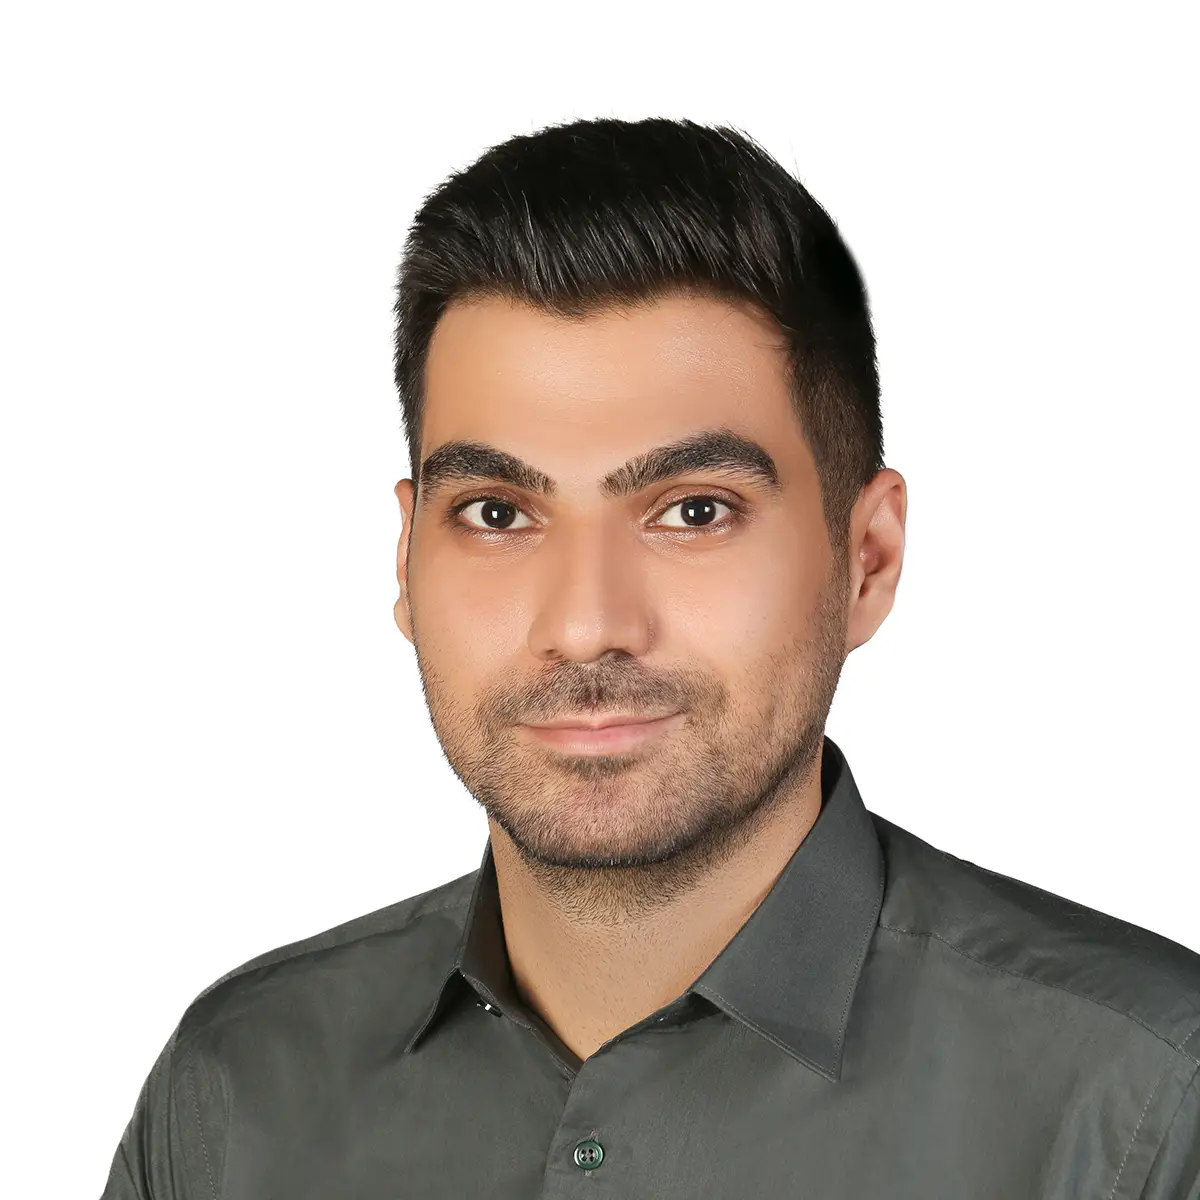
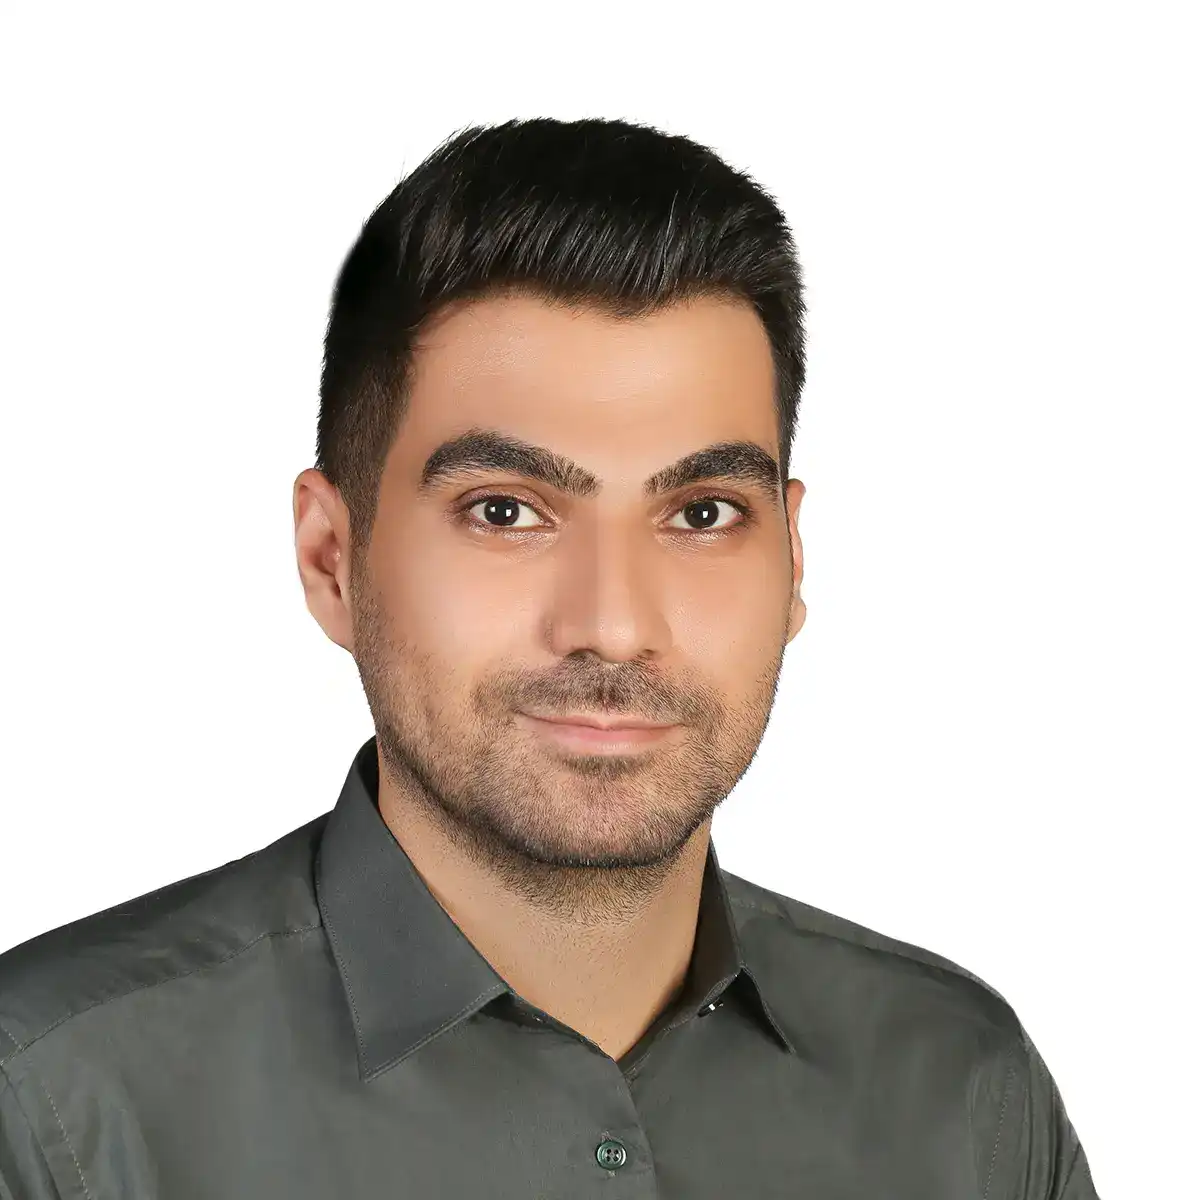
replace portrait image

Changed region(s): [[0.0, 0.0925, 1.0, 1.0], [0.6475, 0.8633, 0.6783, 0.8942], [0.5858, 0.4933, 0.6167, 0.5242]]

diff --git a/index.html b/index.html
@@ -263,7 +263,7 @@
                         <div class="bio-block">
                             <h3>Water and hydraulic engineering</h3>
                             <p>
-                                My background is in the physics of water - how it moves, what it carries, and how
+                                My background is in the physics of water, how it moves, what it carries, and how
                                 those processes can be measured and modelled at the scale of real systems.
                             </p>
                         </div>
@@ -288,7 +288,7 @@
                         <div class="bio-block">
                             <h3>Teaching</h3>
                             <p>
-                                I teach programming, machine learning, and applied AI - mostly to engineers and
+                                I teach programming, machine learning, and applied AI, mostly to engineers and
                                 scientists who want computation as a working instrument, not a black box.
                             </p>
                         </div>
